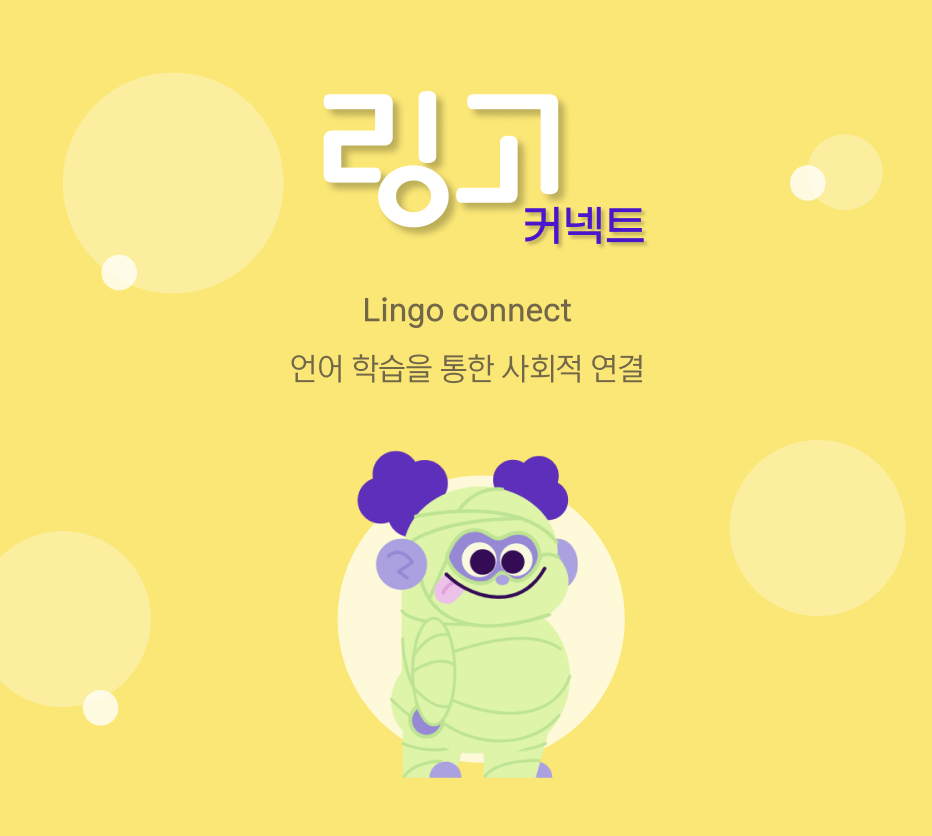
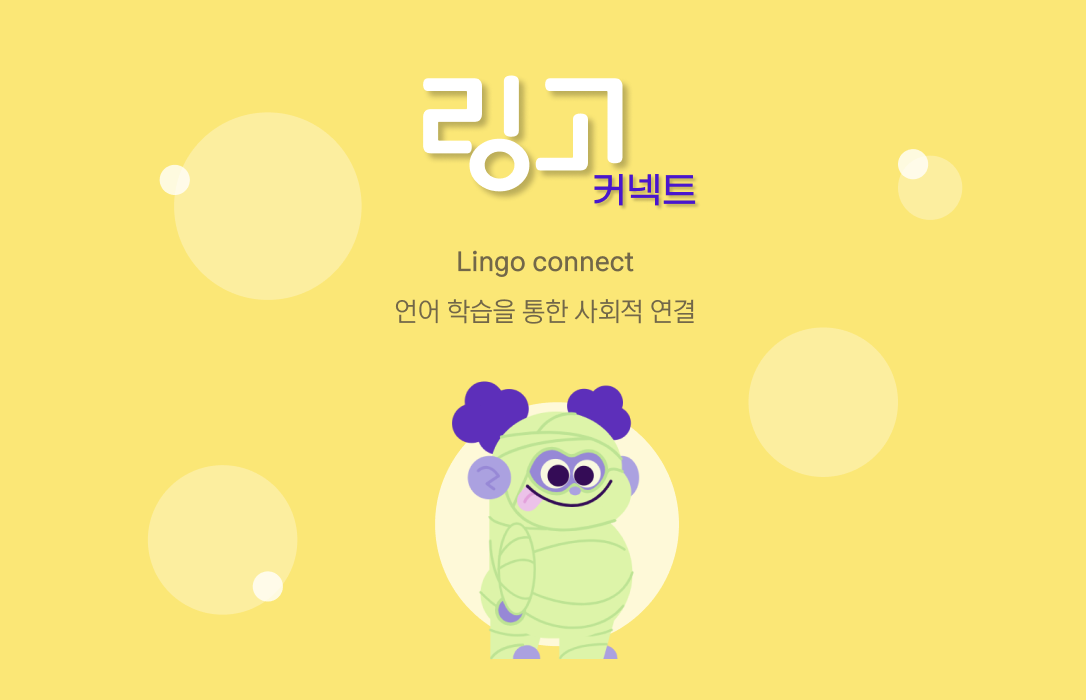
Chore: 썸네일 수정

diff --git a/frontend/public/index.html b/frontend/public/index.html
@@ -5,7 +5,7 @@
     <link rel="icon" href="%PUBLIC_URL%/favicon.ico" />
     <meta name="viewport" content="width=device-width, initial-scale=1" />
     <meta property="og:title" content="링고커넥트 | LingoConnect" />
-    <meta property="og:description" content="함께하는 소통의 시작, 링고커넥트 LingoConnect" />
+    <meta property="og:description" content="함께하는 소통의 시작, 링고커넥트" />
     <meta property="og:image" content="%PUBLIC_URL%/thumbnail.png" />
     <meta name="theme-color" content="#ffe660" />
     <meta name="description" content="지적장애인 사회화를 위한 AI 기반 언어 학습 서비스" />
